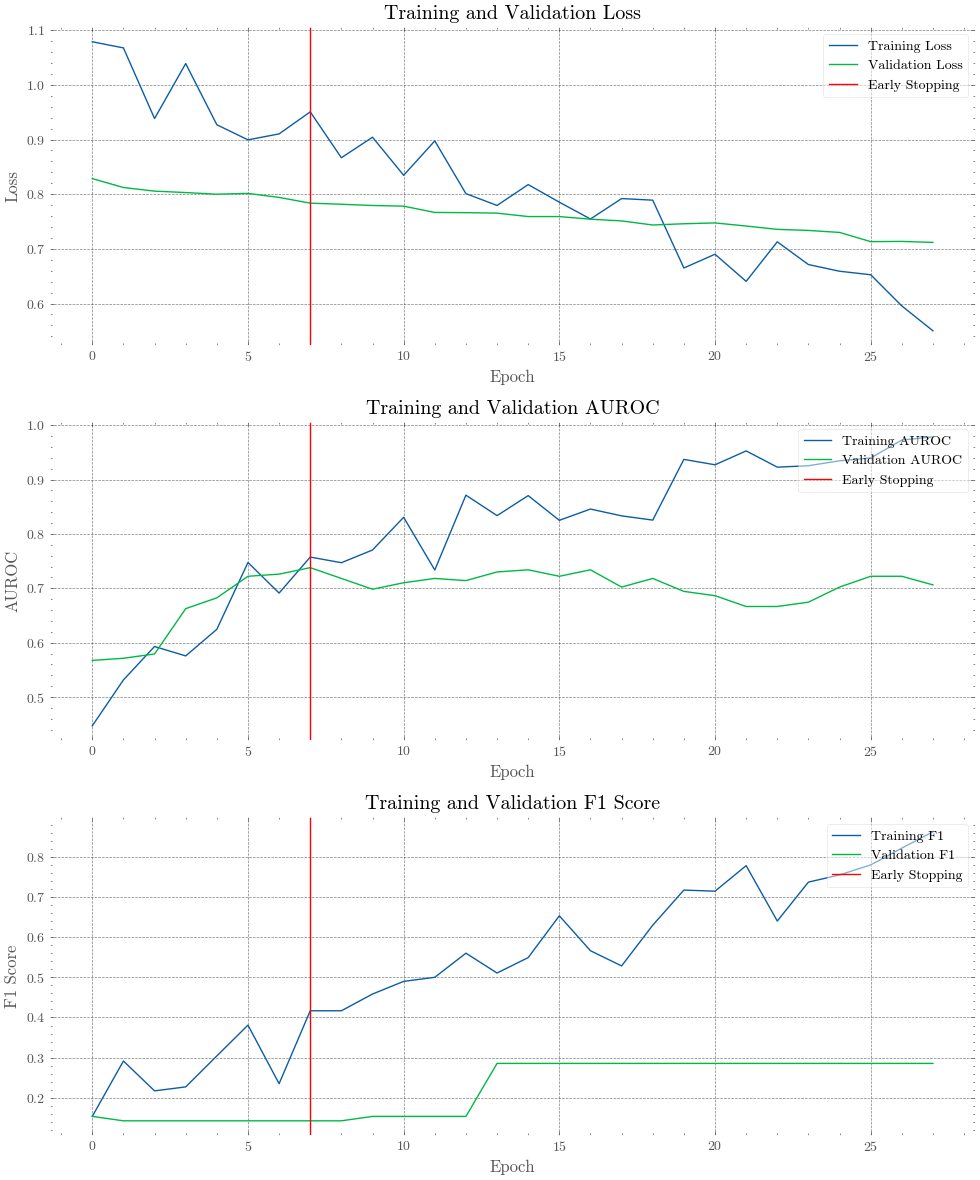
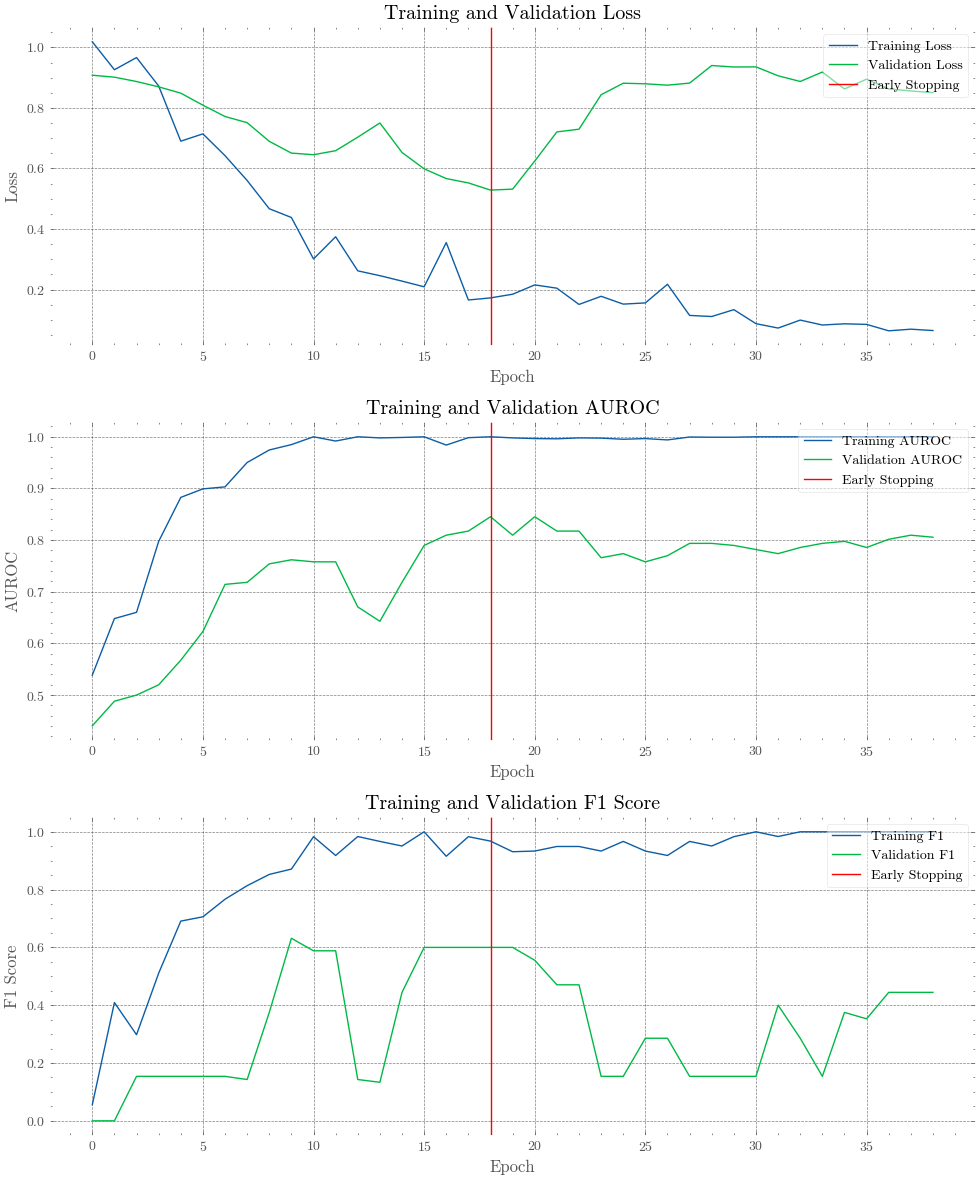
Modify run_multimodal.py

diff --git a/5-2.run_multimodal.py b/5-2.run_multimodal.py
@@ -106,34 +106,53 @@ class MultimodalDataset(Dataset):
         return self.utterance_features[idx], self.audio_features[idx], self.labels[idx]
 
 class MultimodalModel(nn.Module):
-    def __init__(self, utterance_input_size, audio_input_size, hidden_size, dropout=0.3):
+    def __init__(self, utterance_input_size, audio_input_size, hidden_size, dropout=0.4):
         super(MultimodalModel, self).__init__()
         
-        # Utterance modality
+        # Utterance modality encoder with deeper structure
         self.utterance_encoder = nn.Sequential(
-            nn.Linear(utterance_input_size, hidden_size),
-            nn.BatchNorm1d(hidden_size),
-            nn.ReLU(),
-            nn.Dropout(dropout)
-        )
-        
-        # Audio modality
-        self.audio_encoder = nn.Sequential(
-            nn.Linear(audio_input_size, hidden_size),
-            nn.BatchNorm1d(hidden_size),
-            nn.ReLU(),
-            nn.Dropout(dropout)
-        )
-        
-        
-        # Fusion layer
-        fusion_input_size = hidden_size * 2
-        self.fusion_layer = nn.Sequential(
-            nn.Linear(fusion_input_size, hidden_size),
-            nn.BatchNorm1d(hidden_size),
+            nn.Linear(utterance_input_size, 512),
+            nn.BatchNorm1d(512),
             nn.ReLU(),
             nn.Dropout(dropout),
-            nn.Linear(hidden_size, 1)
+            nn.Linear(512, 256),
+            nn.BatchNorm1d(256),
+            nn.ReLU(),
+            nn.Dropout(dropout),
+            nn.Linear(256, 128),
+            nn.BatchNorm1d(128),
+            nn.ReLU(),
+            nn.Dropout(dropout)
+        )
+        
+        # Audio modality encoder with deeper structure
+        self.audio_encoder = nn.Sequential(
+            nn.Linear(audio_input_size, 512),
+            nn.BatchNorm1d(512),
+            nn.ReLU(),
+            nn.Dropout(dropout),
+            nn.Linear(512, 256),
+            nn.BatchNorm1d(256),
+            nn.ReLU(),
+            nn.Dropout(dropout),
+            nn.Linear(256, 128),
+            nn.BatchNorm1d(128),
+            nn.ReLU(),
+            nn.Dropout(dropout)
+        )
+        
+        # Fusion layer with deeper structure
+        fusion_input_size = 128 * 2  # 128 from each encoder
+        self.fusion_layer = nn.Sequential(
+            nn.Linear(fusion_input_size, 256),
+            nn.BatchNorm1d(256),
+            nn.ReLU(),
+            nn.Dropout(dropout),
+            nn.Linear(256, 64),
+            nn.BatchNorm1d(64),
+            nn.ReLU(),
+            nn.Dropout(dropout),
+            nn.Linear(64, 1)
         )
         
     def forward(self, utterance_x, audio_x):
